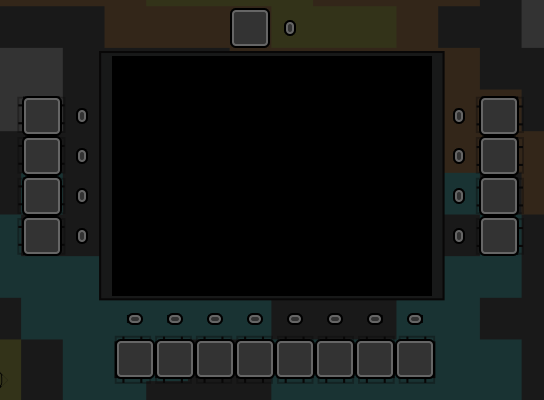
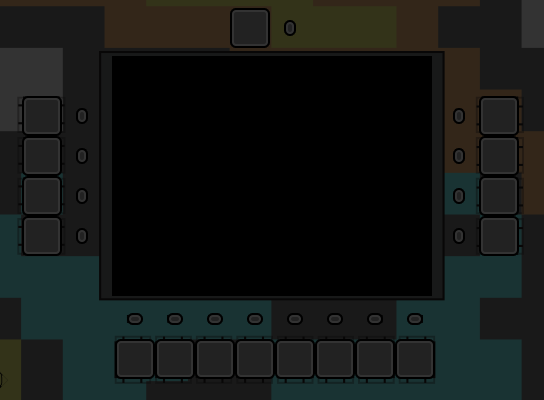
Darken frame & buttons so lit LEDs show up better

diff --git a/visual_button.c b/visual_button.c
@@ -38,18 +38,18 @@ void initButtons (SDL_Renderer *renderer) {
     );
 
     SDL_SetRenderTarget(renderer, buttonTexture);
-    SDL_SetRenderDrawColor(renderer, 0x33, 0x33, 0x33, 0xFF);
+    SDL_SetRenderDrawColor(renderer, 0x22, 0x22, 0x22, 0xFF);
     SDL_RenderFillRect(renderer, &buttonStateOffRect);
     SDL_RenderFillRect(renderer, &buttonStateOnRect);
 
-    SDL_SetRenderDrawColor(renderer, 0x44, 0x44, 0x44, 0xFF);
+    SDL_SetRenderDrawColor(renderer, 0x33, 0x33, 0x33, 0xFF);
     SDL_RenderFillRect(renderer, &workingRect);
     workingRect.x += BUTTON_SIZE;
     SDL_SetRenderDrawColor(renderer, 0xaa, 0xaa, 0xaa, 0xFF);
     SDL_RenderFillRect(renderer, &workingRect);
 
     SDL_SetRenderTarget(renderer, ledTexture);
-    SDL_SetRenderDrawColor(renderer, 0x33, 0x33, 0x33, 0xFF);
+    SDL_SetRenderDrawColor(renderer, 0x22, 0x22, 0x22, 0xFF);
     SDL_RenderFillRect(renderer, &ledStateOffRect);
     SDL_SetRenderDrawColor(renderer, 0xFF, 0x66, 0x66, 0xFF);
     SDL_RenderFillRect(renderer, &ledStateOnRect);
